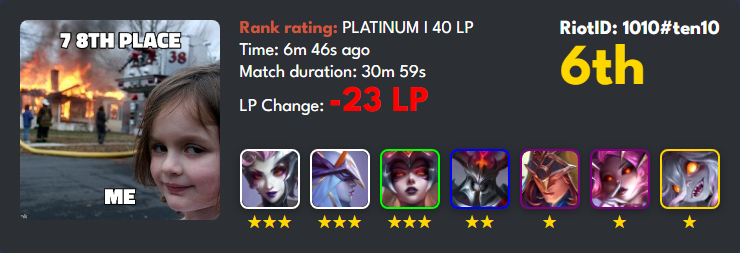
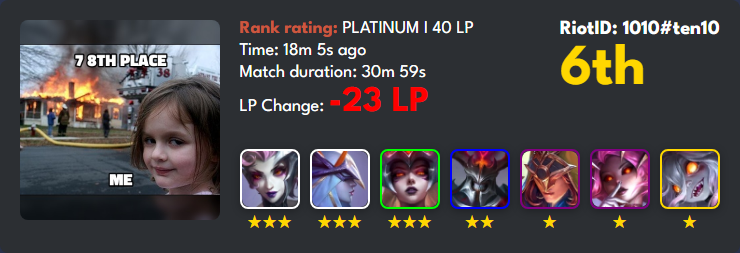
fix img ratio

Changed region(s): [[0.0, 0.0553, 0.3108, 0.8854], [0.373, 0.166, 0.4973, 0.249]]

diff --git a/main.py b/main.py
@@ -49,15 +49,15 @@ def save_json_to_file(data, folder_path, file_name):
 def get_meme_url_by_placement(placement):
     # Define the meme URLs based on placement
     meme_urls = {
-        1: "https://api.memegen.link/images/rollsafe.png",
-        2: "https://api.memegen.link/images/cheems/it's_gooood.jpg",
-        3: "https://api.memegen.link/images/fine/this_is_fine.jpg",
-        4: "https://api.memegen.link/images/grave/_/5th_place/4th_place.jpg",
-        5: "https://api.memegen.link/images/ugandanknuck/5th_place/it's_okay_just_10_lp.png?height=100&width=180",
-        6: "https://api.memegen.link/images/disastergirl/7_8th_place/me.jpg",
-        7: "https://api.memegen.link/images/ds/7th_place/8th_place.png?height=380&width=250",
-        8: "https://api.memegen.link/images/buzz/you_see_that_woody/you_are_at_the_bottom.png",
-        9: "https://api.memegen.link/images/woman-cat/why_is_it_not_working/error.jpg",
+        1: "https://api.memegen.link/images/stonks.png?height=300&width=300",
+        2: "https://api.memegen.link/images/cheems/it's_gooood.jpg?height=300&width=300",
+        3: "https://api.memegen.link/images/fine/this_is_fine.jpg?height=300&width=300",
+        4: "https://api.memegen.link/images/grave/_/5th_place/4th_place.jpg?height=300&width=300",
+        5: "https://api.memegen.link/images/ugandanknuck/5th_place/it's_okay_just_10_lp.png?height=300&width=300",
+        6: "https://api.memegen.link/images/disastergirl/7th_place/me.jpg?height=300&width=300",
+        7: "https://api.memegen.link/images/ds/7th_place/8th_place.png?height=300&width=300",
+        8: "https://api.memegen.link/images/buzz/you_see_that_woody/you_are_at_the_bottom.png?height=300&width=300",
+        9: "https://api.memegen.link/images/woman-cat/why_is_it_not_working/error.jpg?height=300&width=300",
     }
     # Return the meme URL based on placement, default to the last meme if not found
     return meme_urls.get(placement, meme_urls[9])
@@ -481,11 +481,14 @@ def create_match_summary(profile_data, shcedule_run=False):
             height: 200px;
             overflow: hidden;
             border-radius: 8px;
+            background-color: transparent;
         }
         .meme-image img {
-            width: 100%;
+            width: 115%;
             height: 100%;
             object-fit: cover;
+            object-position: center;
+            display: block;
         }
         .content {
             display: flex;
@@ -713,10 +716,10 @@ def create_match_summary(profile_data, shcedule_run=False):
 
 if __name__ == "__main__":
     # Place any testing or standalone code here
-    riot_id = "1010"
-    tag = "ten10"
+    riot_id = "beggy"
+    tag = "3105"
     profile_data = get_tft_profile(riot_id, tag)
 
-    # create_match_summary(profile_data)
+    create_match_summary(profile_data)
 
-    create_match_summary(profile_data, True)
+    # create_match_summary(profile_data, True)
